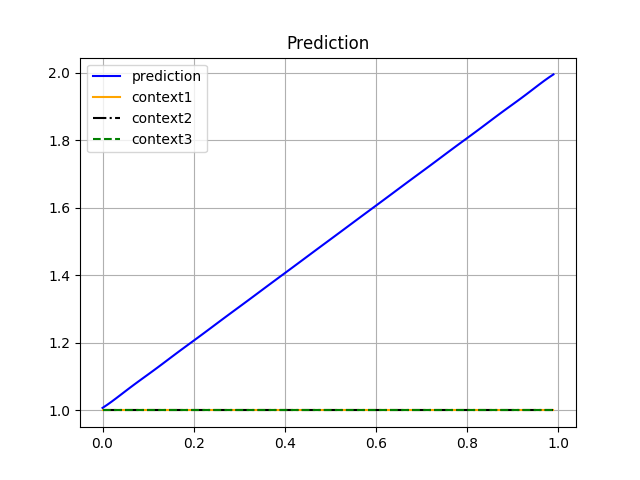
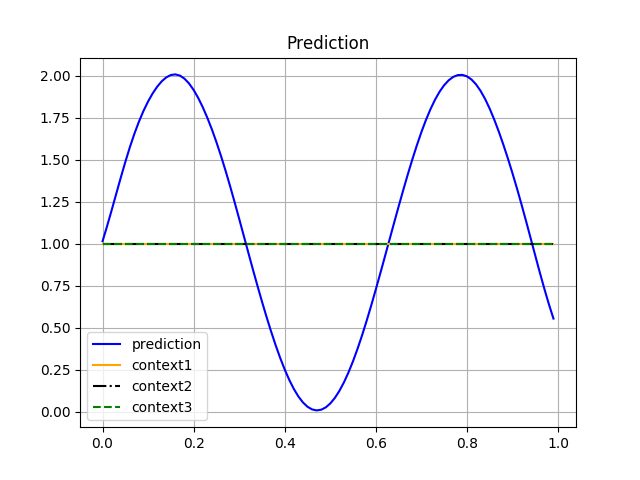
working model with sine waves

diff --git a/promp_context/model_test.py b/promp_context/model_test.py
@@ -31,9 +31,9 @@ plt.figure()
 for i in range(num_traj):
     # y = list(map(lambda x: [x + i, x + i, x + i], x))
     # y = list(map(lambda x: [x + i], x))
-    y1 = list(map(lambda x: [x + i], x))
-    y2 = list(map(lambda x: [x + 2*i], x))
-    y3 = list(map(lambda x: [x + 3*i], x))
+    y1 = list(map(lambda x: [np.sin(10*x) + i], x))
+    y2 = list(map(lambda x: [np.sin(10*x) + 2*i], x))
+    y3 = list(map(lambda x: [np.sin(10*x) + 3*i], x))
 
     context1 = [i, i, i]
     # context2 = 3*i
@@ -71,9 +71,9 @@ for i in range(num_traj):
     samples1.append(sample1)
     # samples2.append(sample2)
 
-plt.legend()
+# plt.legend()
 plt.grid()
-
+plt.show()
 plt.savefig('model.png')
 
 # add samples to promp model
